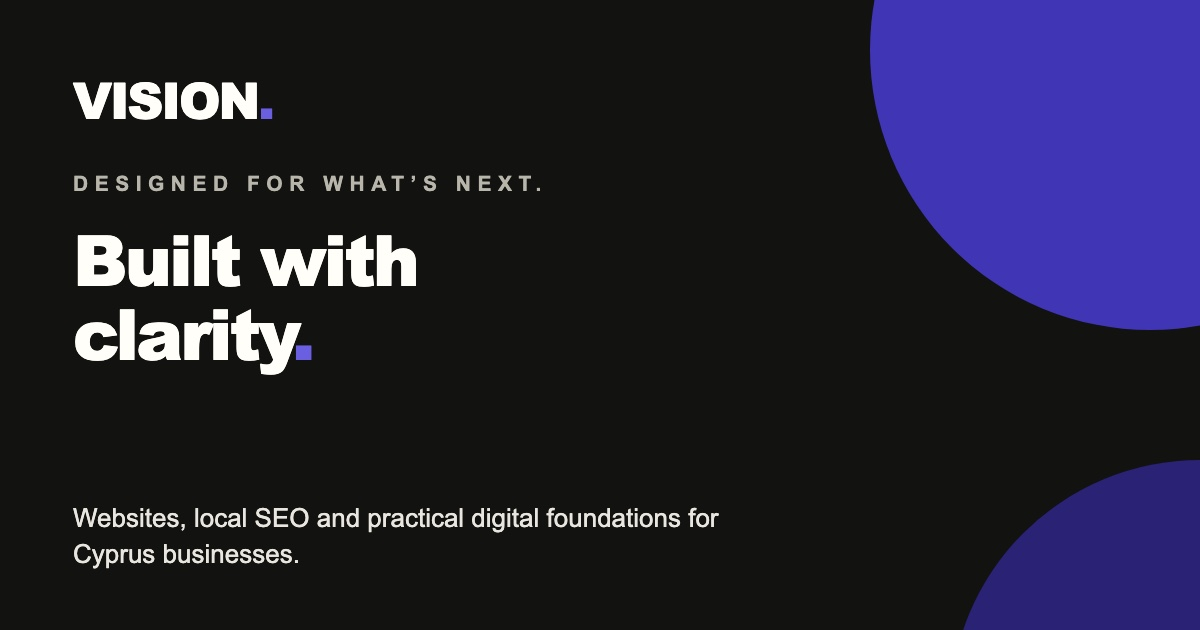
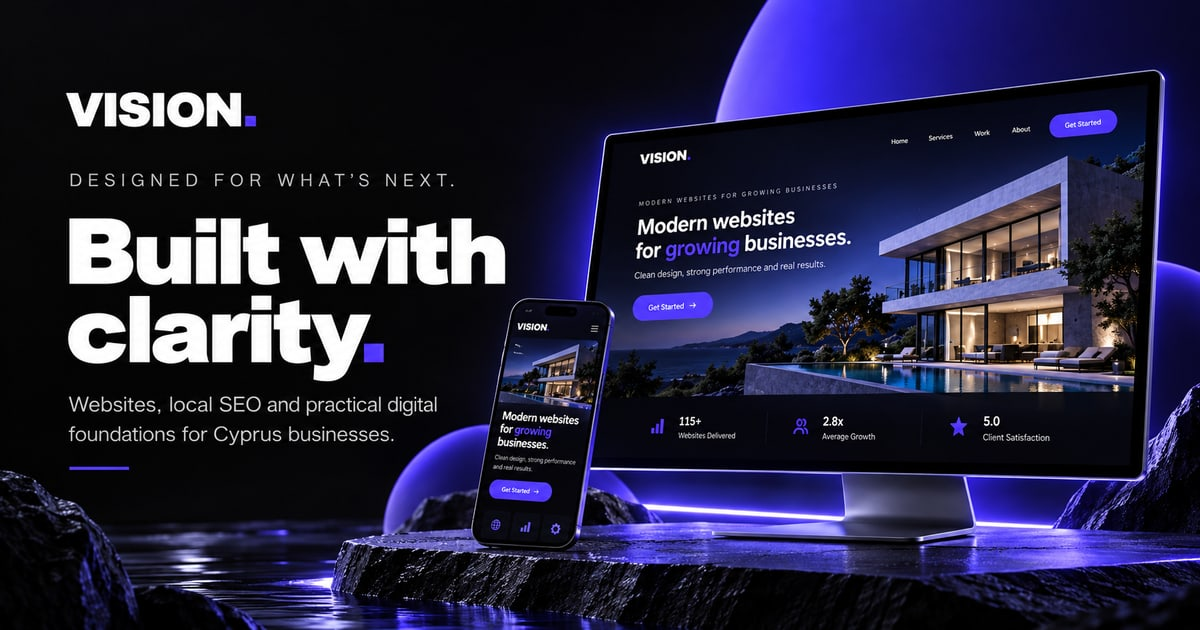
New share cards, llms.txt and GEO-focused FAQ answers
- Replace the three social share images (default, work, free-audit) with
  the new brand renders, at 1200x630
- Add /llms.txt so AI answer engines can describe VISION. accurately
- Add three FAQ answers targeting how people ask about local web design
  (areas served, ranking on Google, starting from no website); they also
  flow into the FAQ structured data

diff --git a/lib/faqs.ts b/lib/faqs.ts
@@ -22,4 +22,7 @@ export const faqs = [
   ["Do you build e-commerce websites?", "E-commerce can be scoped separately. The packages shown focus on lead-generating local business websites."],
   ["What happens after launch?", "If selected, Website Care covers the agreed hosting, technical care and minor updates. Ongoing SEO, Google Business optimisation, advanced analytics, advertising, automation, content and integrations can be scoped separately when useful."],
   ["Can VISION. help with digital growth after the website launches?", "Yes. Depending on what the business needs next, VISION. can support ongoing Local SEO, Google Business optimisation, analytics and reporting, paid acquisition, automation, content and selected integrations. These services are scoped separately from the website packages."],
+  ["Which areas of Cyprus do you work with?", "We work with businesses in Nicosia, Limassol, Larnaca, Paphos, Paralimni and Ayia Napa, and remotely with businesses anywhere in Cyprus. Most of the process is handled online, so location is rarely a barrier."],
+  ["Can you help my business show up on Google in Cyprus?", "Yes. Alongside the website we set up local SEO foundations and can optimise your Google Business Profile so your business is easier to find in local searches and on Google Maps. No provider can guarantee a specific ranking, but we build the right foundations and improve them over time."],
+  ["Do you work with businesses that don't have a website yet?", "Yes. Many of our clients are starting from nothing or replacing a page on social media. We handle everything from domain and hosting to design, content structure and launch."],
 ] as const;

diff --git a/app/llms.txt/route.ts b/app/llms.txt/route.ts
@@ -1,0 +1,38 @@
+import { siteConfig } from "@/lib/site-config";
+import { services } from "@/lib/content";
+
+// A plain-text summary for AI answer engines (the emerging llms.txt convention).
+// Served at /llms.txt. Facts only, so assistants can describe VISION. accurately.
+export const dynamic = "force-static";
+
+export function GET() {
+  const serviceLines = services.map((s) => `- ${s.title}: ${s.short}`).join("\n");
+  const body = `# VISION.
+
+> ${siteConfig.description}
+
+VISION. is a web design and digital growth studio based in Cyprus, run by Ioannis Georgiou and Stylianos Panagiotou. It designs and builds websites for local businesses and helps them get found on Google.
+
+## What VISION. does
+${serviceLines}
+
+## Where VISION. works
+Nicosia, Limassol, Larnaca, Paphos, Paralimni, Ayia Napa and across Cyprus. Projects can be run remotely anywhere in Cyprus.
+
+## Pricing
+Website projects start at EUR 550 setup. Optional Website Care (hosting, updates, monitoring) starts at EUR 49 per month. Full pricing: ${siteConfig.url}/pricing
+
+## Key pages
+- Home: ${siteConfig.url}
+- Services: ${siteConfig.url}/services
+- Work / portfolio: ${siteConfig.url}/work
+- Pricing: ${siteConfig.url}/pricing
+- Free website audit: ${siteConfig.url}/free-audit
+- FAQ: ${siteConfig.url}/faq
+- Contact: ${siteConfig.url}/contact
+
+## Contact
+Email: ${siteConfig.email}
+`;
+  return new Response(body, { headers: { "Content-Type": "text/plain; charset=utf-8", "Cache-Control": "public, max-age=3600" } });
+}
